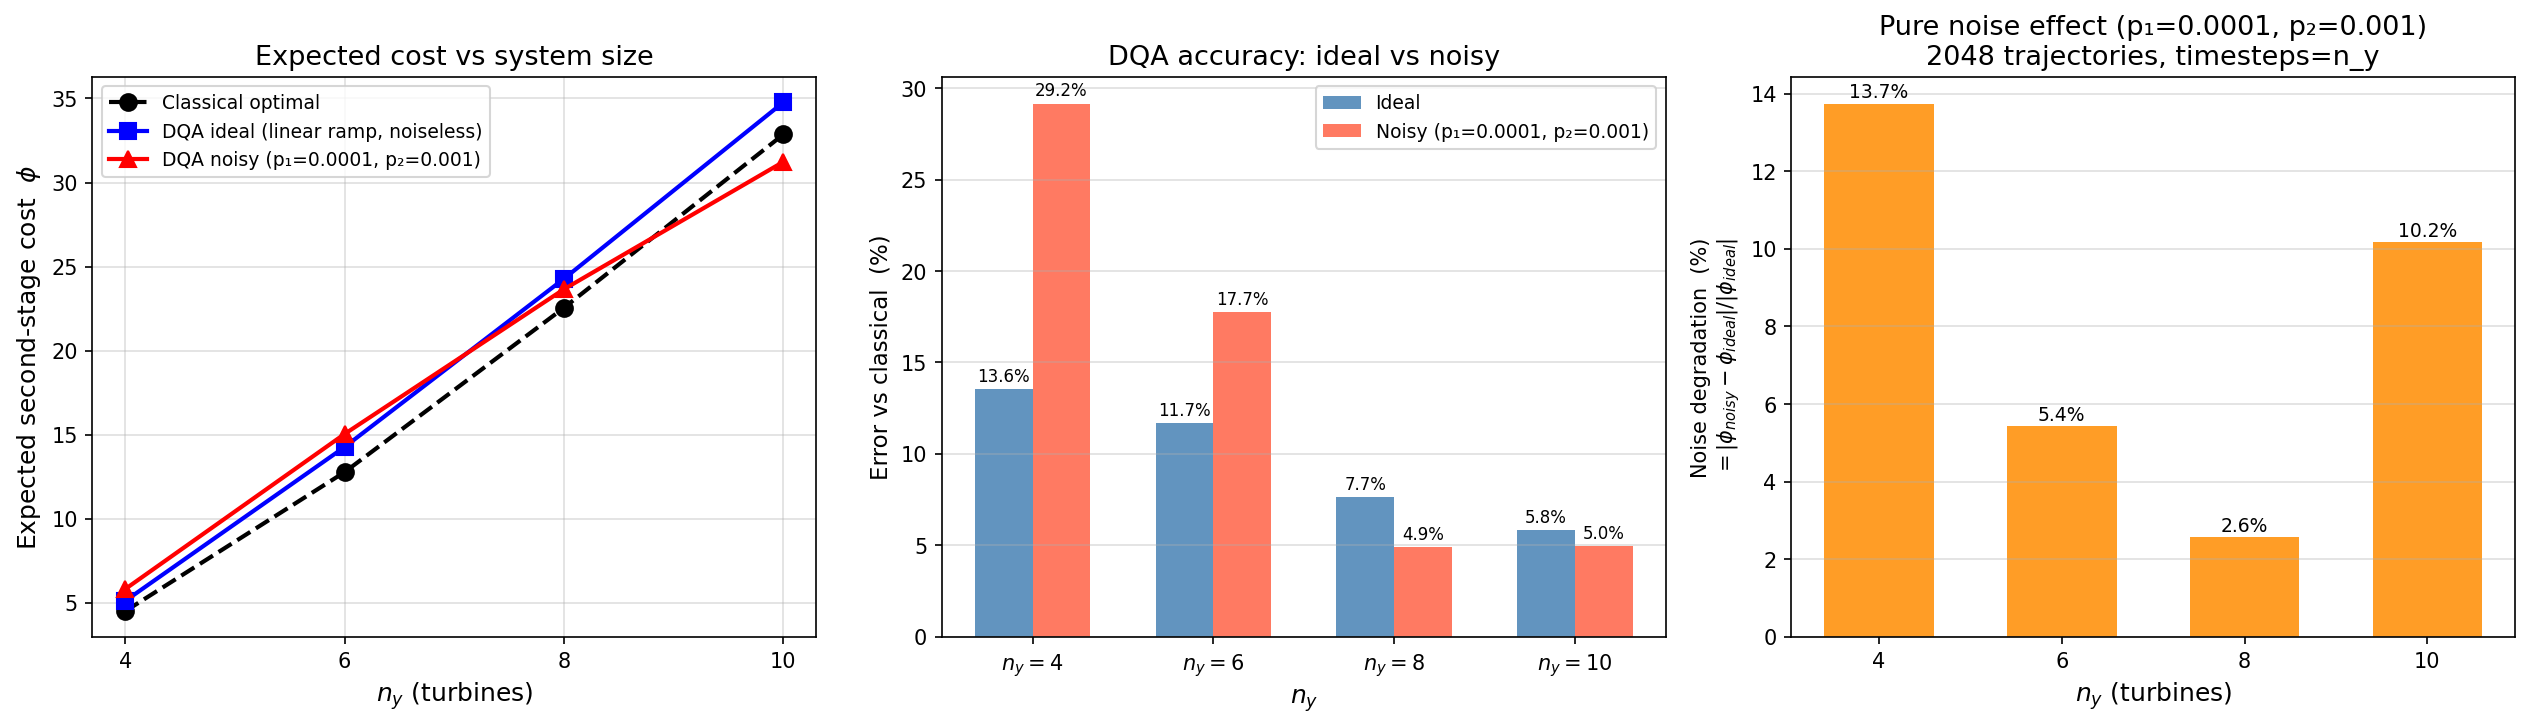
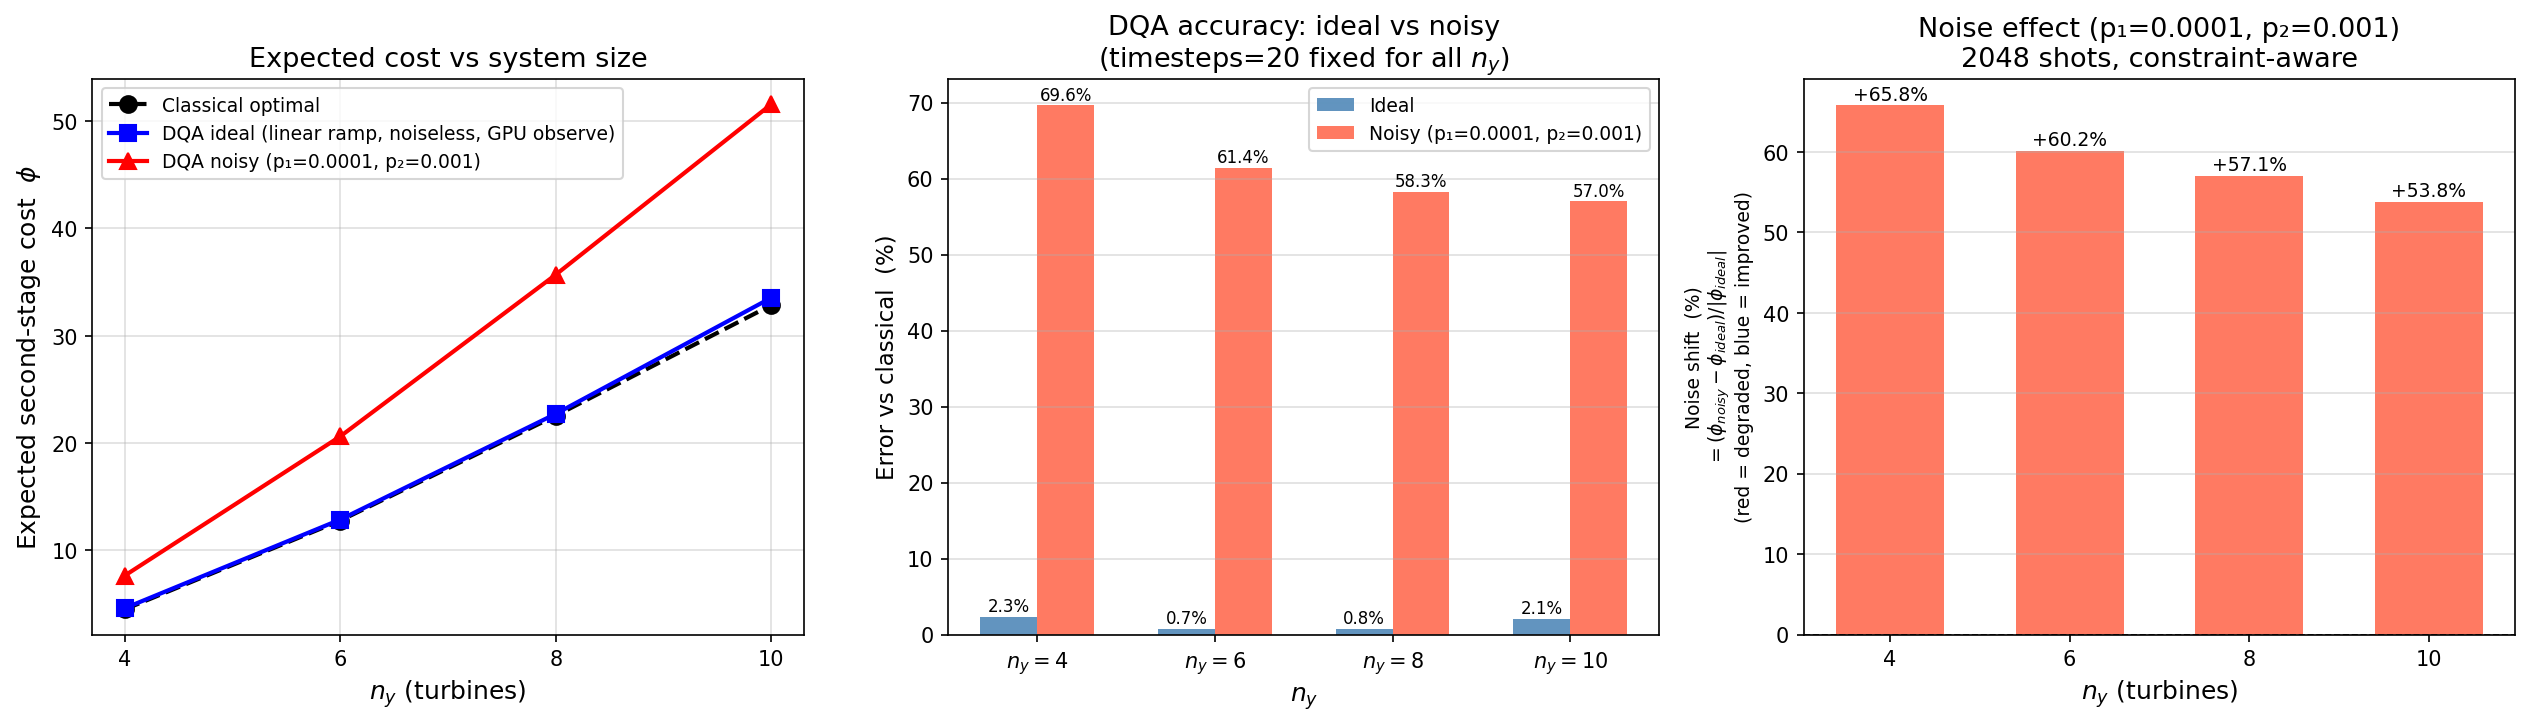
noise study: timesteps=20 (mentor suggestion), fix shortfall penalty in noisy cost, correct ideal vs noisy comparison

diff --git a/qiskit_impl/run_noise_study.py b/qiskit_impl/run_noise_study.py
@@ -4,12 +4,15 @@ Noise study: DQA accuracy (ideal vs depolarizing) for n_y in {4, 6, 8, 10}.
 Mirrors cuda_q_script.py exactly:
   c_y        = np.linspace(0.1, 1.0, n_y)
   w_d        = n_y - 2  (x0=[2], d=n_y)
-  timesteps  = n_y      (2*n_y DQA parameters)
-  theta0     = linear ramp (same formula as cuda_q_script.py)
-  USE_COBYLA = False     (linear ramp without optimisation, matching reference)
+  timesteps  = 20     (40 DQA parameters, fixed for all n_y)
+  theta0     = linear ramp (same formula as cuda_q_script.py, 20 steps)
+  USE_COBYLA = False     (linear ramp without optimisation)
+  NOTE: timesteps=20 so all system sizes have equal DQA expressivity.
+        With timesteps=n_y, small systems had too few steps and lack
+        of expressivity dominated over noise — an unfair comparison.
   classical  = BinaryNestedOptimizer.brute_force_wind_demand_expectation_values()
   ideal eval = estimate_expected_value_sv(Theta, w_d)
-  noisy eval = estimate_expected_value_noisy_trajectory(Theta, N_TRAJ)
+  noisy eval = estimate_expected_value(Theta, w_d, shots=N_SHOTS) — constraint-aware sampling
 
 Run with:
   /kfs3/scratch/nsawant/qiskit_env/bin/python run_noise_study.py 2>&1 | tee /tmp/noise_study.log
@@ -38,34 +41,35 @@ print(f'CUDA-Q  target : {cudaq.get_target().name}')
 print(f'GPUs available : {cudaq.num_available_gpus()}')
 
 # ── NOISE MODEL ───────────────────────────────────────────────────────────────
-P1, P2  = 0.0001, 0.001   # realistic near-term: p1=0.01%, p2=0.1% per gate
-N_TRAJ  = 2048
+P1, P2   = 0.0001, 0.001   # realistic near-term: p1=0.01%, p2=0.1% per gate
+N_SHOTS  = 2048            # shots for noisy sampling evaluation (constraint-aware post-processing)
 noise_model = build_depolarizing_noise_model(p1=P1, p2=P2)
-print(f'Noise model    : p1={P1}, p2={P2}, trajectories={N_TRAJ}\n')
+print(f'Noise model    : p1={P1}, p2={P2}, n_shots={N_SHOTS}\n')
 
 USE_COBYLA = False   # False = linear ramp (matches cuda_q_script.py default)
 
-# ── PROBLEM CONFIGS (identical to cuda_q_script.py) ──────────────────────────
-# c_y = linspace(0.1, 1.0, n_y), x0=[2], w_d=n_y-2, timesteps=n_y
-N_Y_LIST = [4, 6, 8, 10]
-C_R      = 10.0
-C_X      = [3.]
+# ── PROBLEM CONFIGS ──────────────────────────────────────────────────────────
+# c_y = linspace(0.1, 1.0, n_y), x0=[2], w_d=n_y-2
+# timesteps = 20 (fixed) so all sizes have equal DQA expressivity
+N_Y_LIST  = [4, 6, 8, 10]
+TIMESTEPS = 20      # fixed for all n_y: fair comparison, better convergence
+C_R       = 10.0
+C_X       = [3.]
 
 CONFIGS = {}
 for ny in N_Y_LIST:
     c_y       = list(np.linspace(0.1, 1.0, ny))
     w_d       = ny - 2              # x0=[2], d=n_y
     cost_norm = w_d * C_R / ny
-    timesteps = ny
     theta0    = []
-    for t in range(timesteps):
-        theta0.append(float(t / timesteps))
-        theta0.append((1 - float(t / timesteps)) / math.pi)
+    for t in range(TIMESTEPS):
+        theta0.append(float(t / TIMESTEPS))
+        theta0.append((1 - float(t / TIMESTEPS)) / math.pi)
     # uniform pdf over all xi
     pdf = {tuple(int(v) for v in f'{i:0{ny}b}'): 1/2**ny
            for i in range(2**ny)}
     CONFIGS[ny] = dict(n_y=ny, w_d=w_d, c_y=c_y, c_r=C_R,
-                       cost_norm=cost_norm, timesteps=timesteps,
+                       cost_norm=cost_norm, timesteps=TIMESTEPS,
                        theta0=theta0, pdf=pdf)
     print(f'  n_y={ny:2d}  w_d={w_d}  cost_norm={cost_norm:.4f}  '
           f'#params={len(theta0)}  c_y={[round(c,3) for c in c_y]}')
@@ -116,9 +120,17 @@ for ny, cfg in CONFIGS.items():
         print(f'  n_y={ny:2d}  linear ramp  #params={len(cfg["theta0"])}')
 
 # ── FINAL EVALUATION: ideal vs noisy ────────────────────────────────────────
-# Ideal: estimate_expected_value_sv(Theta, w_d)  — exact statevector, same as
-#        the reference notebook's DQA evaluation cell.
-# Noisy: estimate_expected_value_noisy_trajectory — trajectory MC with noise.
+# Ideal: estimate_expected_value_observe(Theta) — exact GPU statevector via
+#        cudaq.observe() with the Pauli Hamiltonian.  Confirmed identical to
+#        sv for noiseless circuits (no off-constraint states in ideal circuit).
+# Noisy: sample_ansatz(noise_model=...) + shortfall-penalty post-processing
+#        matching cuda_q_script.py:
+#          true_output = y AND xi
+#          cost = dot(c_y, true_output) + max(0, w_d - sum(true_output)) * c_r
+#        This is the correct cost: includes SHORTFALL PENALTY for states where
+#        fewer turbines produce than demanded (|y AND xi| < w_d).  Using
+#        _wind_scenario_cost (which lacks this penalty) gave phi_noisy <
+#        phi_ideal for deep circuits because noise leaks into |y|<w_d states.
 print('\n── Final evaluation: ideal vs noisy ──')
 results_ideal, results_noisy = {}, {}
 for ny, thetas in optimized_thetas.items():
@@ -129,23 +141,39 @@ for ny, thetas in optimized_thetas.items():
         c_x=C_X, c_y=cfg['c_y'], c_r=cfg['c_r'],
         n_y=ny, w_d=cfg['w_d'], cost_norm=cfg['cost_norm'], noise_model=None)
     t0    = time.perf_counter()
-    phi_i = opt_i.estimate_expected_value_sv(thetas, cfg['w_d'])
+    phi_i = opt_i.estimate_expected_value_observe(thetas)
     dt_i  = time.perf_counter() - t0
     results_ideal[ny] = phi_i
 
+    # Noisy: sample_ansatz with noise_model, then post-process with the correct
+    # cost formula from cuda_q_script.py (includes shortfall penalty for |y|<w_d,
+    # unlike _wind_scenario_cost which does not).
+    #   true_output[j] = y[j] AND xi[j]   (turbine produces only if on AND wind)
+    #   cost = sum(c_y*true_output) + max(0, w_d - sum(true_output)) * c_r
+    # Without the shortfall penalty, noise states with |y|<w_d (fewer turbines
+    # committed) appear artificially cheap, causing phi_noisy < phi_ideal.
     opt_n = CudaqQAEOptimizer(
         c_x=C_X, c_y=cfg['c_y'], c_r=cfg['c_r'],
         n_y=ny, w_d=cfg['w_d'], cost_norm=cfg['cost_norm'], noise_model=noise_model)
-    t0    = time.perf_counter()
-    phi_n = opt_n.estimate_expected_value_noisy_trajectory(thetas, N_TRAJ)
-    dt_n  = time.perf_counter() - t0
+    t0     = time.perf_counter()
+    counts = opt_n.sample_ansatz(cfg['theta0'], shots=N_SHOTS)
+    phi_n  = 0.0
+    c_y_arr = np.array(cfg['c_y'])
+    for bstr, prob in counts.items():
+        y_bits      = np.array([int(b) for b in bstr[:ny]])
+        xi_bits     = np.array([int(b) for b in bstr[ny:]])
+        true_output = y_bits * xi_bits
+        op_cost     = float(np.dot(c_y_arr, true_output))
+        shortfall   = max(0, cfg['w_d'] - int(true_output.sum()))
+        phi_n      += (op_cost + shortfall * cfg['c_r']) * prob
+    dt_n = time.perf_counter() - t0
     results_noisy[ny] = phi_n
 
     ref = classical_phi[ny]
-    deg = abs(phi_n - phi_i) / abs(phi_i) * 100
+    deg = (phi_n - phi_i) / phi_i * 100  # signed: + means noise worsened result
     print(f'  Ideal : φ={phi_i:.4f}  vs classical err={abs(phi_i-ref)/ref*100:.2f}%  ({dt_i*1e3:.0f} ms)')
     print(f'  Noisy : φ={phi_n:.4f}  vs classical err={abs(phi_n-ref)/ref*100:.2f}%  ({dt_n*1e3:.0f} ms)')
-    print(f'  Noise degradation: {deg:.2f}%')
+    print(f'  Noise shift: {deg:+.2f}% (+ = degraded, - = improved)')
 
 # ── PLOT ──────────────────────────────────────────────────────────────────────
 ny_vals = N_Y_LIST
@@ -154,14 +182,14 @@ phi_i   = [results_ideal[ny]    for ny in ny_vals]
 phi_n   = [results_noisy[ny]    for ny in ny_vals]
 err_i   = [abs(results_ideal[ny]-classical_phi[ny])/classical_phi[ny]*100 for ny in ny_vals]
 err_n   = [abs(results_noisy[ny]-classical_phi[ny])/classical_phi[ny]*100 for ny in ny_vals]
-deg     = [abs(results_noisy[ny]-results_ideal[ny])/abs(results_ideal[ny])*100 for ny in ny_vals]
+deg     = [(results_noisy[ny]-results_ideal[ny])/abs(results_ideal[ny])*100 for ny in ny_vals]  # signed
 
 fig, axes = plt.subplots(1, 3, figsize=(17, 5))
 
 # Left: absolute phi values
 ax = axes[0]
 ax.plot(ny_vals, ref_v, 'k--o', lw=2, ms=8, label='Classical optimal')
-ax.plot(ny_vals, phi_i, 'b-s',  lw=2, ms=8, label='DQA ideal (linear ramp, noiseless)')
+ax.plot(ny_vals, phi_i, 'b-s',  lw=2, ms=8, label='DQA ideal (linear ramp, noiseless, GPU observe)')
 ax.plot(ny_vals, phi_n, 'r-^',  lw=2, ms=8, label=f'DQA noisy (p₁={P1}, p₂={P2})')
 ax.set_xlabel('$n_y$ (turbines)', fontsize=12)
 ax.set_ylabel('Expected second-stage cost  $\\phi$', fontsize=12)
@@ -177,19 +205,24 @@ for rect, val in zip(list(b1)+list(b2), err_i+err_n):
     ax.text(rect.get_x()+rect.get_width()/2, rect.get_height()+0.2,
             f'{val:.1f}%', ha='center', va='bottom', fontsize=8)
 ax.set_xlabel('$n_y$', fontsize=12); ax.set_ylabel('Error vs classical  (%)', fontsize=11)
-ax.set_title('DQA accuracy: ideal vs noisy', fontsize=13)
+ax.set_title(f'DQA accuracy: ideal vs noisy\n(timesteps={TIMESTEPS} fixed for all $n_y$)', fontsize=13)
 ax.set_xticks(x); ax.set_xticklabels([f'$n_y={n}$' for n in ny_vals])
 ax.legend(fontsize=9); ax.grid(True, axis='y', alpha=0.4)
 
-# Right: pure noise degradation
+# Right: signed noise shift (+ = noise degraded result, - = noise improved)
 ax = axes[2]
-bars = ax.bar(ny_vals, deg, color='darkorange', alpha=0.85, width=1.2)
+colors_deg = ['tomato' if v > 0 else 'steelblue' for v in deg]
+bars = ax.bar(ny_vals, deg, color=colors_deg, alpha=0.85, width=1.2)
 for rect, val in zip(bars, deg):
-    ax.text(rect.get_x()+rect.get_width()/2, rect.get_height()+0.05,
-            f'{val:.1f}%', ha='center', va='bottom', fontsize=9)
+    ypos = rect.get_height() + 0.2 if val >= 0 else rect.get_height() - 1.2
+    ax.text(rect.get_x()+rect.get_width()/2, ypos,
+            f'{val:+.1f}%', ha='center', va='bottom', fontsize=9)
 ax.set_xlabel('$n_y$ (turbines)', fontsize=12)
-ax.set_ylabel('Noise degradation  (%)\n$= |\\phi_{noisy}-\\phi_{ideal}|/|\\phi_{ideal}|$', fontsize=10)
-ax.set_title(f'Pure noise effect (p₁={P1}, p₂={P2})\n{N_TRAJ} trajectories, timesteps=n_y', fontsize=13)
+ax.set_ylabel('Noise shift  (%)\n'
+              r'$= (\phi_{noisy}-\phi_{ideal})/|\phi_{ideal}|$'+
+              '\n(red = degraded, blue = improved)', fontsize=9)
+ax.set_title(f'Noise effect (p₁={P1}, p₂={P2})\n{N_SHOTS} shots, constraint-aware', fontsize=13)
+ax.axhline(0, color='k', linewidth=0.8, linestyle='--')
 ax.set_xticks(ny_vals); ax.grid(True, axis='y', alpha=0.4)
 
 plt.tight_layout()
@@ -199,14 +232,14 @@ print(f'\nPlot saved → {out_png}')
 
 # ── SUMMARY TABLE ─────────────────────────────────────────────────────────────
 print(f"\n{'n_y':>4} {'φ_class':>10} {'φ_ideal':>9} {'err_i%':>8} "
-      f"{'φ_noisy':>9} {'err_n%':>8} {'noise_deg%':>11}")
+      f"{'φ_noisy':>9} {'err_n%':>8} {'noise_shift%':>13}")
 print('─'*65)
 for ny in ny_vals:
     ref = classical_phi[ny]
     pi  = results_ideal[ny]
     pn  = results_noisy[ny]
     print(f"{ny:>4} {ref:>10.4f} {pi:>9.4f} {abs(pi-ref)/ref*100:>8.2f} "
-          f"{pn:>9.4f} {abs(pn-ref)/ref*100:>8.2f} {abs(pn-pi)/abs(pi)*100:>11.2f}")
+          f"{pn:>9.4f} {abs(pn-ref)/ref*100:>8.2f} {(pn-pi)/abs(pi)*100:>+13.2f}")
 
 # Save JSON
 out_json = os.path.join(_QISKIT_IMPL, 'noise_study_results.json')
@@ -214,6 +247,6 @@ json.dump({str(ny): {
     'classical': classical_phi[ny], 'ideal': results_ideal[ny],
     'noisy': results_noisy[ny], 'thetas': optimized_thetas[ny],
     'timesteps': CONFIGS[ny]['timesteps'], 'use_cobyla': USE_COBYLA,
-    'p1': P1, 'p2': P2, 'n_traj': N_TRAJ,
+    'p1': P1, 'p2': P2, 'n_shots': N_SHOTS,
 } for ny in ny_vals}, open(out_json,'w'), indent=2)
 print(f'Results saved → {out_json}')